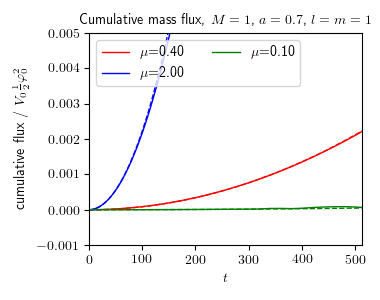
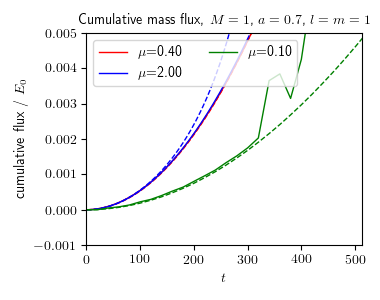
new plots

diff --git a/Analysis/scripts/plot_ang_mom_flux_compare_mu.py b/Analysis/scripts/plot_ang_mom_flux_compare_mu.py
@@ -91,7 +91,7 @@ class data_dir:
 		self.tflux = flux_data[1:,0]
 		self.r_min = flux_data[0,1]
 		self.r_max = flux_data[0,2]
-		E0 = 0.5*(4*np.pi*(self.r_max**3)/3)*(phi0)**2
+		E0 = 0.5*(4*np.pi*(self.r_max**3)/3)*(phi0*mu)**2
 		self.inner_ang_mom_flux = -flux_data[1:,1]/E0
 		self.outer_ang_mom_flux = -flux_data[1:,2]/E0	
 		if cumulative:
@@ -188,7 +188,8 @@ def plot_graph():
 	ax1.set_xlim((0, 512))
 	ax1.set_ylim((-0.002, 0.01))
 	if cumulative:
-		ax1.set_ylabel("cumulative flux / $V_0 \\frac{1}{2} \\varphi^2_0$")
+		#ax1.set_ylabel("cumulative flux / $V_0 \\frac{1}{2} \\varphi^2_0$")
+		ax1.set_ylabel("cumulative flux / $E_0$") # \\frac{1}{2} \\varphi^2_0$")
 		plt.title("Cumulative ang. mom. flux, $M=1$, \n $a=0.7$, $l=m=1$", fontsize=title_font_size)
 		save_path = home_path + "plots/ang_mom_flux_in_R{:.0f}_IsoKerr_compare_mu_cumulative_vs_t.png".format(R_max)
 	else:

diff --git a/Analysis/scripts/plot_mass_flux_compare_mu.py b/Analysis/scripts/plot_mass_flux_compare_mu.py
@@ -117,7 +117,7 @@ class data_dir:
 		self.tflux = flux_data[1:,0]
 		self.r_min = flux_data[0,1]
 		self.r_max = flux_data[0,2]
-		E0 = 0.5*(4*np.pi*(self.r_max**3)/3)*(phi0)**2
+		E0 = 0.5*(4*np.pi*(self.r_max**3)/3)*(phi0*mu)**2
 		self.inner_mass_flux = -flux_data[1:,1]/(E0)
 		self.outer_mass_flux = -flux_data[1:,2]/(E0)	
 		if cumulative:
@@ -216,7 +216,8 @@ def plot_graph():
 	ax1.set_xlim((0, 512))
 	ax1.set_ylim((-0.001, 0.005))
 	if cumulative:
-		ax1.set_ylabel("cumulative flux / $V_0 \\frac{1}{2} \\varphi^2_0$")
+		#ax1.set_ylabel("cumulative flux / $V_0 \\frac{1}{2} \\varphi^2_0$")
+		ax1.set_ylabel("cumulative flux / $E_0$") # \\frac{1}{2} \\varphi^2_0$")
 		plt.title("Cumulative mass flux, $M=1$, $a=0.7$, $l=m=1$", fontsize=title_font_size)
 		save_path = home_path + "plots/mass_flux_in_R{:.0f}_IsoKerr_compare_mu_cumulative_vs_t.png".format(R_max)
 	else:
